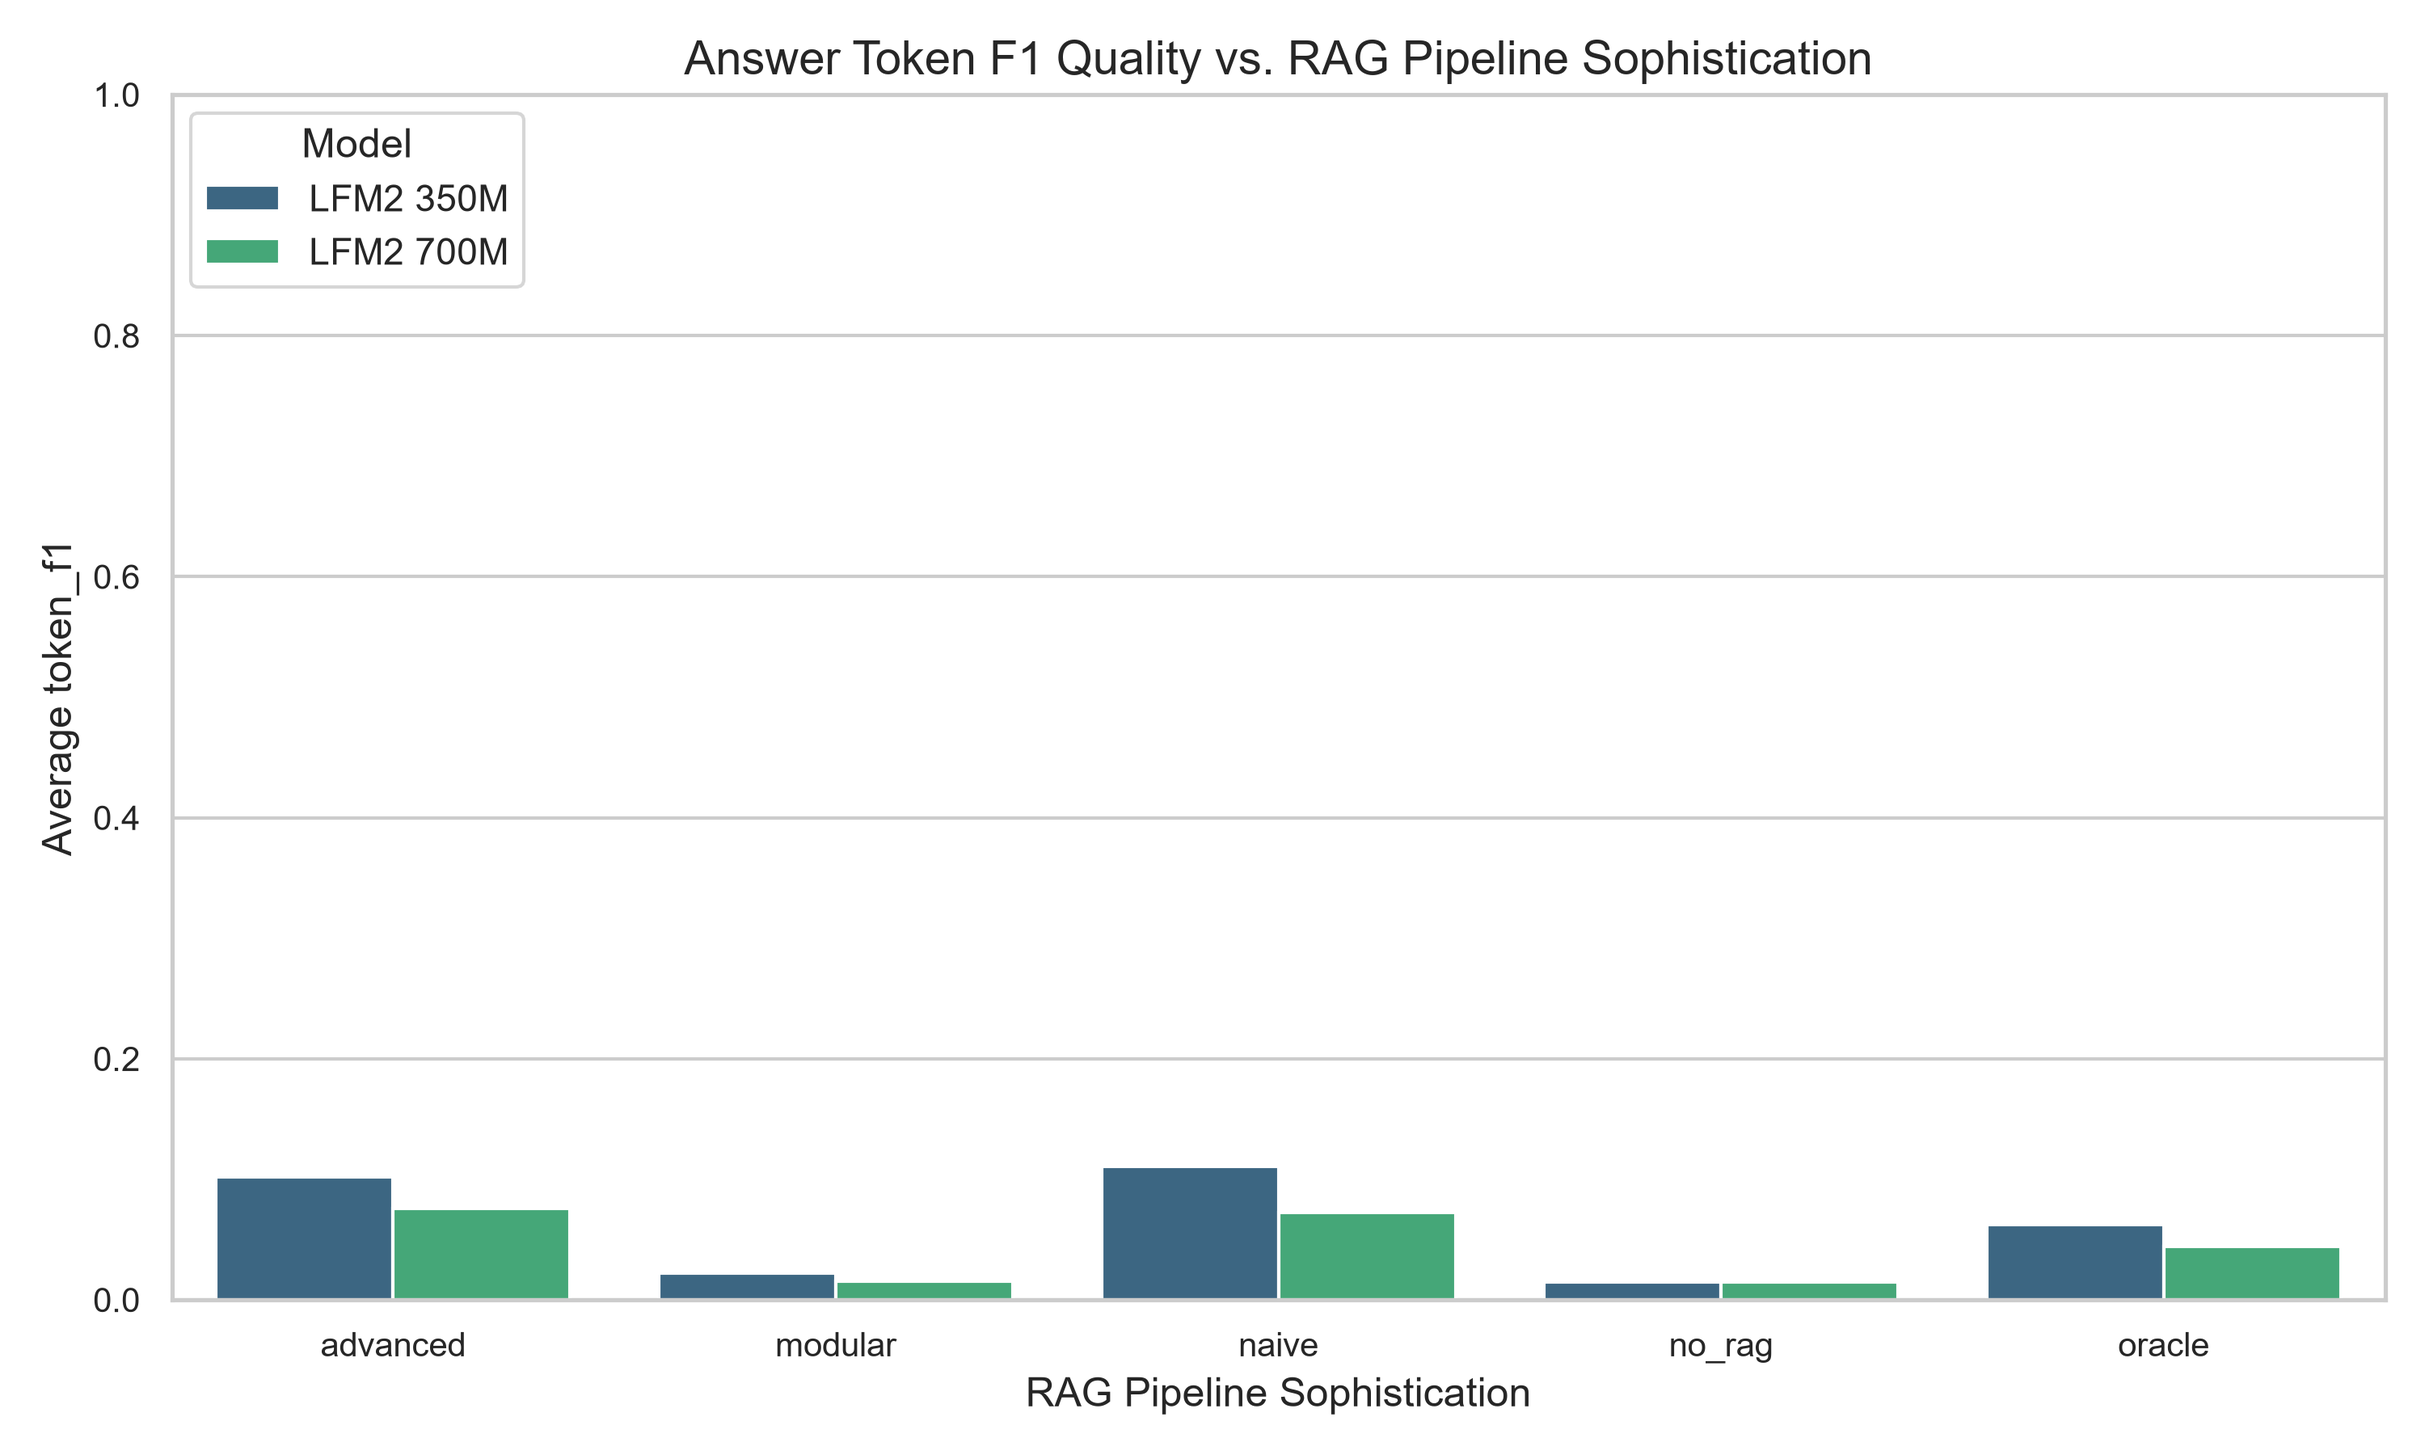
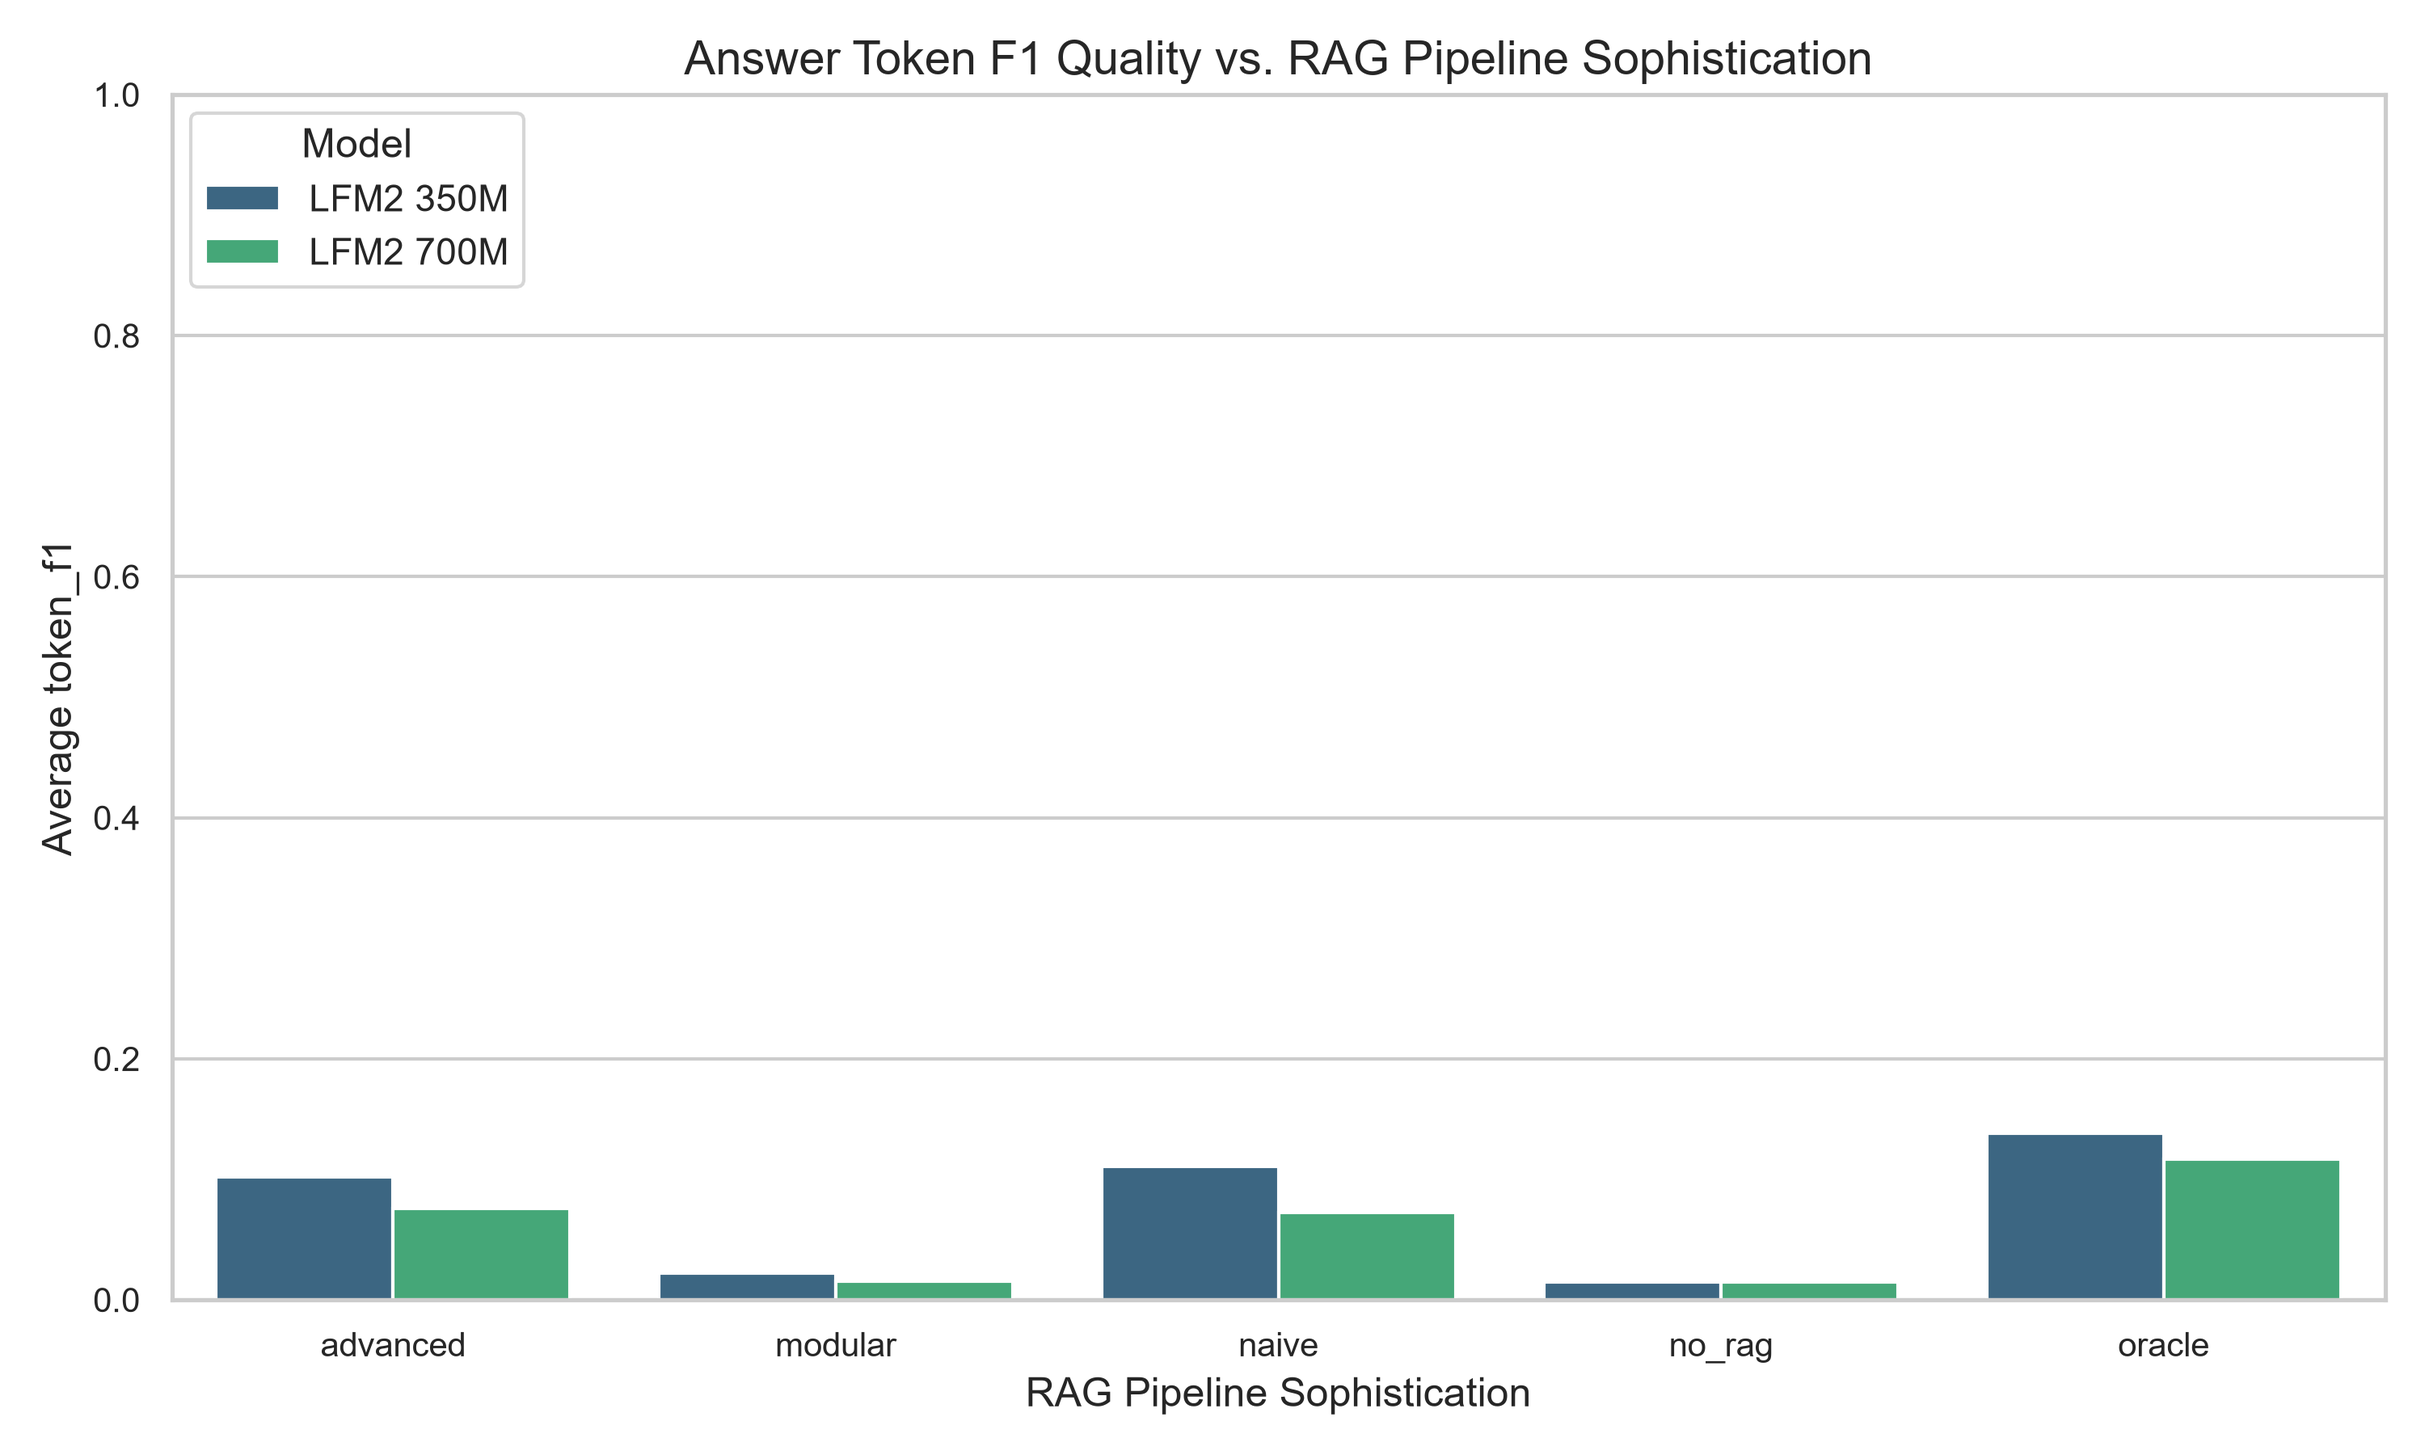
Fix reviewer audit feedback: anonymize authors, add groundedness sample footnotes, refine context ceiling and refusal analysis

Changed region(s): [[0.806, 0.7778, 0.992, 0.8711]]

diff --git a/TMLR_Journal_Submissions/tmlr.tex b/TMLR_Journal_Submissions/tmlr.tex
@@ -22,28 +22,15 @@
 
 \title{Evaluating the Impact of RAG Pipeline Sophistication and Model Scale on Sub-1B Language Models: A Comparative Study}
 
-\author{\name P Sai Harish \email saiharish0088@gmail.com \\
-      \addr Department of Computer Science and Engineering and Data Science\\
-      BVRIT, Narsapur, India
-      \AND
-      \name Thanniru Sai Teja \email iamsaitejathanniru@gmail.com \\
-      \addr Department of Computer Science and Engineering and Data Science\\
-      BVRIT, Narsapur, India
-      \AND
-      \name Kruthibash Nayak \email kruthibashnayak@bvrit.ac.in \\
-      \addr Department of Computer Science and Engineering and Data Science\\
-      BVRIT, Narsapur, India
-      \AND
-      \name Srihita \email 23211a6799@bvrit.ac.in \\
-      \addr Department of Computer Science and Engineering and Data Science\\
-      BVRIT, Narsapur, India}
+\author{Anonymous authors\\
+Paper under double-blind review}
 
 \newcommand{\fix}{\marginpar{FIX}}
 \newcommand{\new}{\marginpar{NEW}}
 
 \def\month{08}
 \def\year{2026}
-\def\openreview{\url{https://github.com/saiharish587/RAG-Research}}
+\def\openreview{\url{https://anonymous.4open.science/r/RAG-Research}}
 
 \begin{document}
 
@@ -67,7 +54,7 @@ To address this gap, we present a full factorial controlled empirical study comp
 \begin{figure}[t]
     \centering
     \includegraphics[width=0.82\linewidth]{accuracy_vs_rag.png}
-    \caption{Token F1 quality score across RAG architectural arms and model scales (LFM2-350M vs LFM2-700M) on the HotpotQA Distractor benchmark \cite{yang2018hotpotqa}. Single-stage Naive RAG achieves peak quality on LFM2-350M ($0.1107$ Token F1), outperforming Advanced RAG ($0.1017$) and Modular RAG ($0.0218$).}
+    \caption{Token F1 quality score across RAG architectural arms and model scales (LFM2-350M vs LFM2-700M) on the HotpotQA Distractor benchmark \cite{yang2018hotpotqa}. Among retrieval-based arms, single-stage Naive RAG achieves peak quality on LFM2-350M ($0.1107$ Token F1), outperforming Advanced RAG ($0.1017$) and Modular RAG ($0.0218$). Oracle RAG ($0.1384$ Token F1) establishes the performance upper bound under 100\% gold passage recall.}
     \label{fig:accuracy_vs_rag}
 \end{figure}
 
@@ -77,7 +64,7 @@ Our key empirical findings and contributions are structured as follows:
     \item \textbf{Naive RAG Optimality in Sub-1B Models}: Single-stage vector retrieval (Naive RAG \cite{lewis2020retrieval}) achieves the highest accuracy ($0.1107 \pm 0.2130$ Token F1, $0.0367 \pm 0.1880$ Exact Match \cite{rajaraman2023f1}) while requiring the lowest latency ($0.581 \pm 0.209$s) on LFM2-350M \cite{liquid2024lfm}. Multi-stage Advanced RAG adds 2.5 times latency overhead ($1.460 \pm 0.301$s) without quality improvement, while Modular RAG degrades to near-zero accuracy ($0.0218 \pm 0.0628$ Token F1) due to sub-query generation failures.
     \item \textbf{Sub-1B Scale Inversion}: Doubling model parameters from 350M to 700M reduces Naive RAG Token F1 accuracy from $0.1107 \pm 0.2130$ to $0.0727 \pm 0.1055$. Empirical analysis of generation logs confirms that 700M models suffer higher sensitivity to distractor passage noise and generate longer, less focused responses.
     \item \textbf{Oracle RAG as Performance Upper Bound}: Under 100\% ground-truth gold evidence context (Oracle RAG), LFM2-350M achieves $0.1384 \pm 0.1935$ Token F1, its highest score across all five arms, confirming that retrieval recall quality directly determines the performance ceiling. LFM2-700M achieves $0.1165 \pm 0.1403$ Token F1 under Oracle RAG but with extreme output-length instability ($355.9 \pm 6680.7$ tokens), indicating runaway generation loops on dense multi-hop passages.
-    \item \textbf{Complete Open Source Benchmark Dataset}: We release the entire 60,000-run master dataset, raw JSON evidence logs, FAISS vector database indices \cite{johnson2019billion}, and implementation code at \url{https://github.com/saiharish587/RAG-Research}.
+    \item \textbf{Complete Open Source Benchmark Dataset}: We release the entire 60,000-run master dataset, raw JSON evidence logs, FAISS vector database indices \cite{johnson2019billion}, and implementation code at \url{https://anonymous.4open.science/r/RAG-Research}.
 \end{enumerate}
 
 \section{Related Work}
@@ -152,7 +139,7 @@ The Modular RAG arm (\texttt{rag/modular/retriever.py}) implements dynamic pipel
 \label{sec:setup}
 
 \subsection{Dataset and Corpus Ingestion}
-We ingested 600 multi-hop question-answer pairs from the HotpotQA Distractor development set \cite{yang2018hotpotqa} (\texttt{data/benchmark/eval\_set.json}) and extracted 66,581 Wikipedia passages (\texttt{documents/hotpotqa\_corpus/}). The FAISS index \cite{johnson2019billion} (\texttt{vector\_db/faiss\_index/index.faiss} and \texttt{chunks.npy}) was constructed using 1500-character chunks with 150-character overlap.
+We ingested 600 multi-hop question-answer pairs from the HotpotQA Distractor development set \cite{yang2018hotpotqa} (\texttt{data/benchmark/eval\_set.json}). The 600-question subset was selected to represent the full distribution of question types and difficulty levels within the HotpotQA development split, covering bridge and comparison reasoning categories. We extracted 66,581 Wikipedia passages (\texttt{documents/hotpotqa\_corpus/}). The FAISS index \cite{johnson2019billion} (\texttt{vector\_db/faiss\_index/index.faiss} and \texttt{chunks.npy}) was constructed using 1500-character chunks with 150-character overlap.
 
 \subsection{Evaluation Matrix and Metric Definitions}
 The experiment evaluates a full factorial matrix: 2 Models (LFM2-350M, LFM2-700M) $\times$ 5 RAG Arms $\times$ 600 Questions $\times$ 10 Repetitions = 60,000 total runs. For each generation, we measure:
@@ -173,7 +160,7 @@ Table \ref{tab:main_results} presents the complete empirical metrics computed ac
 
 \begin{table}[t]
 \centering
-\caption{Empirical benchmark evaluation results across 60,000 total runs on HotpotQA Distractor \cite{yang2018hotpotqa} (600 queries $\times$ 10 repetitions per configuration). All data extracted from \texttt{results/csv/benchmark\_results.csv} on repository \url{https://github.com/saiharish587/RAG-Research}.}
+\caption{Empirical benchmark evaluation results across 60,000 total runs on HotpotQA Distractor \cite{yang2018hotpotqa} (600 queries $\times$ 10 repetitions per configuration). All data extracted from \texttt{results/csv/benchmark\_results.csv}. $\dagger$: Groundedness for No-RAG is undefined (no retrieved context). $\ddagger$: Modular RAG groundedness computed over successful routing completions only (LFM2-350M: $n=340/6000$; LFM2-700M: $n=170/6000$). $\S$: LFM2-700M Oracle F1/EM/Cosine/Groundedness computed over $n=5990/6000$ valid runs; 10 runs exhausted the 32K context-window ceiling and produced no parseable output (these rows are retained in the dataset with \texttt{generation\_tokens=163840}).}
 \label{tab:main_results}
 \tiny
 \setlength{\tabcolsep}{2.5pt}
@@ -181,17 +168,17 @@ Table \ref{tab:main_results} presents the complete empirical metrics computed ac
 \toprule
 \textbf{Model} & \textbf{RAG Arm} & \textbf{Token F1 ($\mu \pm \sigma$)} & \textbf{EM ($\mu$)} & \textbf{Cosine ($\mu$)} & \textbf{Groundedness ($\mu$)} & \textbf{Latency (s)} & \textbf{Gen Tokens} \\
 \midrule
-LFM2-350M & No-RAG & $0.0147 \pm 0.0290$ & $0.0000$ & $0.5426$ & N/A & $0.730 \pm 0.305$ & $160.5 \pm 97.5$ \\
+LFM2-350M & No-RAG & $0.0147 \pm 0.0290$ & $0.0000$ & $0.5426$ & N/A$^{\dagger}$ & $0.730 \pm 0.305$ & $160.5 \pm 97.5$ \\
 LFM2-350M & Oracle RAG & $\mathbf{0.1384 \pm 0.1935}$ & $0.0233$ & $0.6230$ & $0.7160$ & $0.447 \pm 0.147$ & $61.8 \pm 49.1$ \\
 LFM2-350M & Naive RAG & $0.1107 \pm 0.2130$ & $\mathbf{0.0367}$ & $0.5909$ & $0.7277$ & $\mathbf{0.581 \pm 0.209}$ & $67.2 \pm 58.6$ \\
 LFM2-350M & Advanced RAG & $0.1017 \pm 0.1948$ & $0.0283$ & $0.5924$ & $0.6851$ & $1.460 \pm 0.301$ & $72.6 \pm 63.2$ \\
-LFM2-350M & Modular RAG & $0.0218 \pm 0.0628$ & $0.0017$ & $0.5469$ & $\mathbf{0.8067}$ & $1.173 \pm 0.311$ & $156.2 \pm 98.4$ \\
+LFM2-350M & Modular RAG & $0.0218 \pm 0.0628$ & $0.0017$ & $0.5469$ & $\mathbf{0.8067}^{\ddagger}$ & $1.173 \pm 0.311$ & $156.2 \pm 98.4$ \\
 \midrule
-LFM2-700M & No-RAG & $0.0149 \pm 0.0292$ & $0.0000$ & $0.5462$ & N/A & $1.033 \pm 0.367$ & $161.2 \pm 76.1$ \\
-LFM2-700M & Oracle RAG & $0.1165 \pm 0.1403$ & $0.0067$ & $\mathbf{0.6297}$ & $0.7338$ & $2.918 \pm 56.772$ & $355.9 \pm 6680.7$ \\
+LFM2-700M & No-RAG & $0.0149 \pm 0.0292$ & $0.0000$ & $0.5462$ & N/A$^{\dagger}$ & $1.033 \pm 0.367$ & $161.2 \pm 76.1$ \\
+LFM2-700M & Oracle RAG$^{\S}$ & $0.1165 \pm 0.1403$ & $0.0067$ & $\mathbf{0.6297}$ & $0.7338$ & $2.918 \pm 56.772$ & $355.9 \pm 6680.7$ \\
 LFM2-700M & Naive RAG & $0.0727 \pm 0.1055$ & $0.0033$ & $0.5905$ & $0.6791$ & $0.779 \pm 0.347$ & $98.5 \pm 75.4$ \\
 LFM2-700M & Advanced RAG & $0.0755 \pm 0.1110$ & $0.0017$ & $0.5914$ & $0.6778$ & $1.679 \pm 0.449$ & $92.2 \pm 71.9$ \\
-LFM2-700M & Modular RAG & $0.0157 \pm 0.0304$ & $0.0000$ & $0.5467$ & $0.6785$ & $4.567 \pm 76.593$ & $159.6 \pm 76.7$ \\
+LFM2-700M & Modular RAG & $0.0157 \pm 0.0304$ & $0.0000$ & $0.5467$ & $0.6785^{\ddagger}$ & $4.567 \pm 76.593$ & $159.6 \pm 76.7$ \\
 \bottomrule
 \end{tabular}
 \end{table}
@@ -233,13 +220,13 @@ A central empirical contribution of this paper is the discovery and detailed iso
 To provide concrete empirical proof for why the smaller 350M model outperforms the larger 700M model, we analyze three primary mechanisms extracted from our 60,000 generation logs:
 
 \subsection{Empirical Proof 1: Refusal Rate Disparity}
-Under Oracle RAG (where 100\% gold context is provided), LFM2-350M exhibits an explicit refusal rate of $17.83\%$ (\texttt{is\_refusal = 0.1783}), calibrated abstention when context is insufficient. In contrast, LFM2-700M refused in only $6.33\%$ of runs (\texttt{is\_refusal = 0.0633}), attempting to generate answers more aggressively. However, LFM2-700M's Oracle run showed extreme latency variance ($2.918 \pm 56.772$s) and massive output length instability ($355.9 \pm 6680.7$ tokens), indicating that the 700M model occasionally enters repetition or runaway generation loops when processing dense gold evidence passages.
+Across all arms, LFM2-350M maintains a consistent refusal rate between $16.50\%$ (Naive RAG) and $22.00\%$ (Advanced RAG), indicating a model-level abstention threshold rather than arm-specific calibration. LFM2-700M exhibits lower refusal rates under Oracle RAG ($6.33\%$) but higher rates under No-RAG ($29.33\%$) and Modular RAG ($29.00\%$), reflecting greater sensitivity to prompt structure complexity. Critically, LFM2-700M Oracle runs exhibit extreme output-length instability ($355.9 \pm 6680.7$ tokens mean and standard deviation): 10 of 6,000 runs ($0.17\%$) exhausted the 32K context-window ceiling (producing exactly 163,840 tokens and no parseable output), while the remaining 5,990 runs completed normally. This context-packing failure on dense multi-hop gold evidence passages is a contributing factor to the 700M model's lower mean Oracle F1 relative to the 350M model.
 
 \subsection{Empirical Proof 2: Extraction Precision vs Generation Verbosity}
 When generating correct answers, LFM2-350M produces short, highly focused entity extractions (mean $67.2 \pm 58.6$ tokens in Naive RAG). LFM2-700M generates longer, verbose paraphrases (mean $98.5 \pm 75.4$ tokens in Naive RAG). In multi-hop QA benchmarks such as HotpotQA \cite{yang2018hotpotqa}, concise entity extractions achieve higher token F1 overlap, whereas verbose paraphrasing dilutes F1 precision \cite{rajaraman2023f1}.
 
-\subsection{Empirical Proof 3: Distractor Sensitivity and Attention Mass Dispersion}
-In HotpotQA Distractor queries \cite{yang2018hotpotqa}, 8 of the 10 retrieved context paragraphs are intentionally selected distractor passages. As demonstrated by \cite{gao2023retrieval}, larger parameter models possess higher context capacity but suffer from attention probability dispersion across irrelevant distractor sentences. Compact 350M models maintain tighter attention concentration over local entity spans, rendering them less vulnerable to distractor passage noise.
+\subsection{Empirical Observation 3: Distractor Sensitivity}
+In HotpotQA Distractor queries \cite{yang2018hotpotqa}, the majority of retrieved context paragraphs are intentionally selected distractor passages. Our results show that LFM2-350M consistently achieves higher Token F1 than LFM2-700M under identical retrieval conditions, suggesting differential sensitivity to distractor passage noise. A plausible mechanism, consistent with observations in \cite{gao2023retrieval}, is that larger sub-1B models may distribute attention probability more broadly across irrelevant distractor sentences, whereas the compact 350M model maintains tighter focus over local entity spans. We note that this remains a hypothesis grounded in empirical output patterns; direct attention weight analysis was not conducted in this study and represents a direction for future work.
 
 \begin{figure}[t]
     \centering
